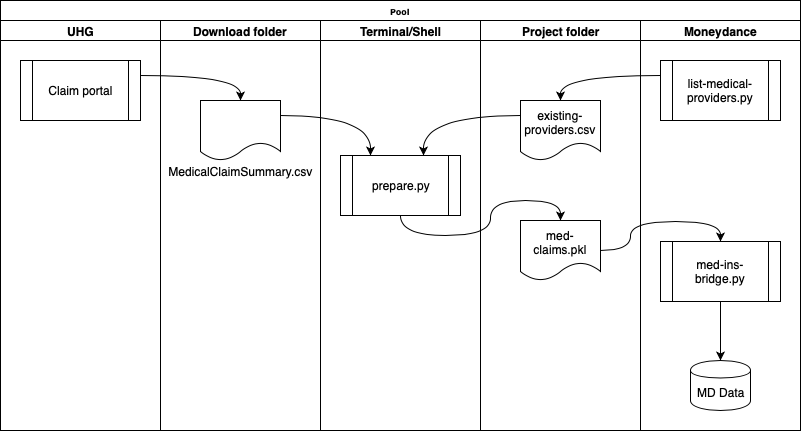
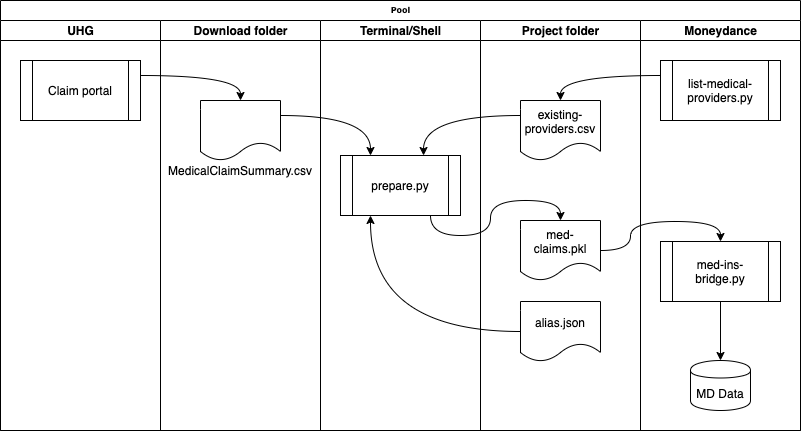
changed last processed date to last visited, added aliasing feature

diff --git a/prepare.py b/prepare.py
@@ -28,6 +28,16 @@ claims=claims.sort_values(by='Date_Visited') #
 claims=claims.loc[claims['Claim_Status']!='In Process'] # ignore inprocess items
 providers=[x.upper() for x in claims.Visited_Provider.unique()]
 
+# ability to handle data errors on the names from the insurer:
+import json
+with open('alias.json') as f: alias=json.load(f)
+ak= alias.keys()
+for x in range(len(providers)): 
+  p=providers[x]
+  if p in ak:
+    claims.loc[claims.Visited_Provider == p,'Visited_Provider']=alias[p]
+    print ("Substituted alias {} for {}".format(alias[p],p))
+providers=[x.upper() for x in claims.Visited_Provider.unique()]
 existing = pd.read_csv(bridgeFileDir+providerFile,sep='\t')
 existing_providers= existing.PROVIDER.to_numpy()
 existing_providers=np.append(existing_providers,['PHARMACY']) # generic vendor, we will ignore later
@@ -42,7 +52,7 @@ if all(found):
   print (claims)
   output = []
   merged = pd.merge(claims,existing,how="left", left_on='Visited_Provider',right_on='PROVIDER')
-  last_processed = '{}\n'.format(claims['Date_Processed'].max())[0:10] 
+  last_processed = '{}\n'.format(claims['Date_Visited'].max())[0:10] # its my last processed date, which is UHC's visit date.
   with open('last_processed','w') as f:
     f.write(last_processed)
   

diff --git a/README.md b/README.md
@@ -45,7 +45,9 @@ X:Health:Maj-med:Tests:Test  <br/>X:Health:Maj-med:Doctor:MD<br/>X:Health:Maj-me
 
 
 
+### Aliases
 
+The JSON file `alias.json` lists invalid provider names that need to be translated.  This allows for practice particpants to be mapped to a central billing entity as well has cases where the insurer has the name wrong.
 
 
 
